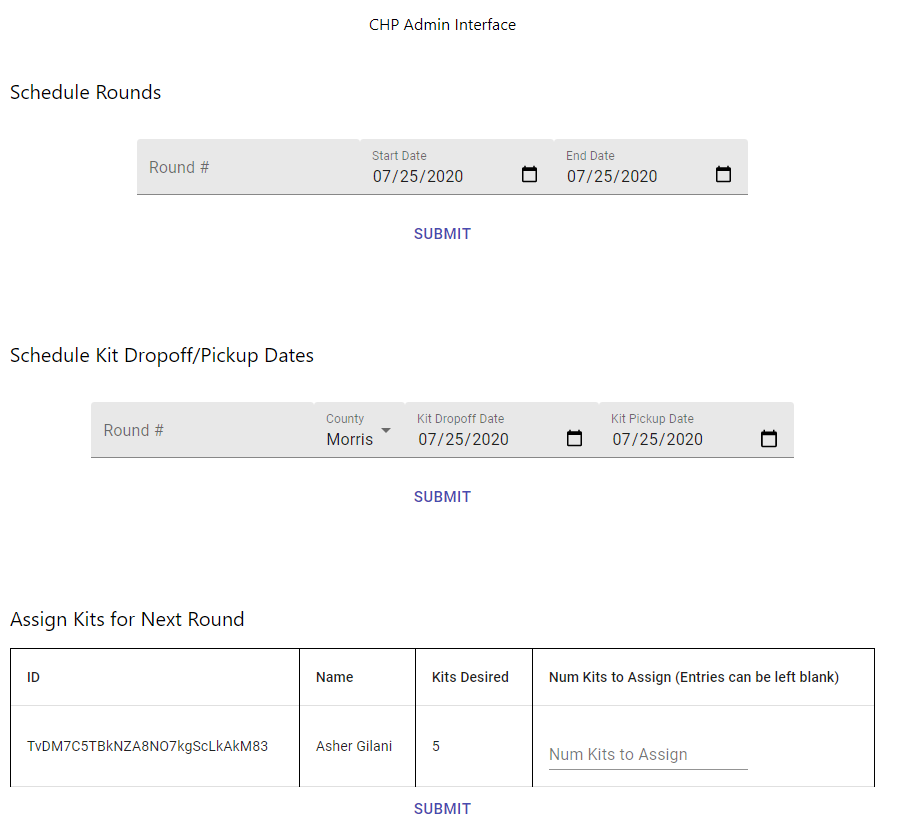
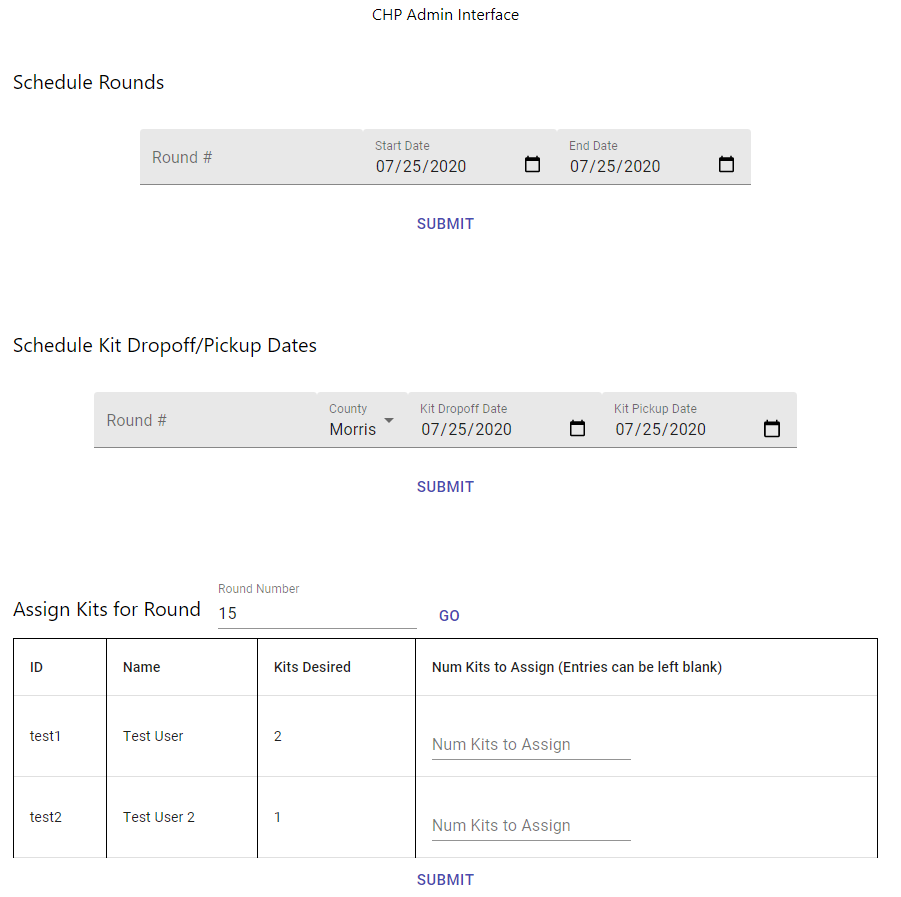
Admin interface now accepts a round number parameter for unassigned users

diff --git a/admin-interface/src/App.js b/admin-interface/src/App.js
@@ -66,6 +66,7 @@ const App = () => {
   const state = {
     scheduleRounds: { roundNum: useRef(), startDate: useRef(), endDate: useRef() },
     scheduleKitDates: { roundNum: useRef(), county: useRef(), kitDropoff: useRef(), kitPickup: useRef() },
+    assignmentRoundNum: useRef(''),
     assignKits: {}
   }
 
@@ -94,7 +95,11 @@ const App = () => {
 
   const initAssignKits = () => {
     console.log('Assigning kits')
+    let roundNum = ''
     let params = {}
+
+    if (state.assignmentRoundNum.current !== '')
+      roundNum = state.assignmentRoundNum.current.value
 
     for (const id in state.assignKits) {
       if (state.assignKits[id].value !== '') {
@@ -105,21 +110,31 @@ const App = () => {
     console.log(JSON.stringify(params, null, 2))
 
     if (Object.keys(params).length !== 0) {
-      assignKits(params)
+      assignKits(params, roundNum).then(() => {
+        initGetUnassignedUsers()
+      })
     }
+  }
+
+  const initGetUnassignedUsers = () => {
+    setUnassignedLoading(true)
+    let roundNum = ''
+
+    if (state.assignmentRoundNum.current !== '')
+      roundNum = state.assignmentRoundNum.current.value
+
+    getUnassignedUsers(roundNum).then((unassigned) => {
+      const newAssignKitRows = unassigned.map(user => createRow(user[0], user[1], user[2]))
+      state.assignKits = {}
+      setAssignKitRows(newAssignKitRows)
+      setUnassignedLoading(false)
+    })
   }
 
   useEffect(() => {
     // Load in unassigned constructors into the bottom table
     if (loggedIn) {
-      setUnassignedLoading(true)
-
-      getUnassignedUsers().then((unassigned) => {
-        const newAssignKitRows = unassigned.map(user => createRow(user[0], user[1], user[2]))
-        state.assignKits = {}
-        setAssignKitRows(newAssignKitRows)
-        setUnassignedLoading(false)
-      })
+      initGetUnassignedUsers()
     }
   }, [loggedIn])
 
@@ -165,7 +180,9 @@ const App = () => {
 
         <FormContainer>
           <LoadingForm>
-            <FormTitle>Assign Kits for Next Round</FormTitle>
+            <FormTitle>Assign Kits for Round</FormTitle>
+            <TextField label='Round Number' inputRef={state.assignmentRoundNum} style={{ marginLeft: '2%', marginTop: '-1.5%' }} />
+            <Button size='large' color='primary' onClick={initGetUnassignedUsers}>Go</Button>
             <BeatLoader
               size={20}
               color='#123abc'

diff --git a/admin-interface/src/actions/AdminActions.js b/admin-interface/src/actions/AdminActions.js
@@ -47,8 +47,10 @@ export const scheduleKitDates = ({ roundNum, county, kitDropoffDate, kitPickupDa
         .catch(err => console.log(`Could not schedule dates: ${err}`))
 }
 
-export const assignKits = (kitAssignment) => {
-    fetch(`${endpoint}/AssignKits`, { method: 'POST', body: JSON.stringify(kitAssignment)})
+export const assignKits = (kitAssignment, roundNumber) => {
+    const url = `${endpoint}/AssignKits?` + new URLSearchParams({ roundNumber })
+
+    return fetch(url, { method: 'POST', body: JSON.stringify(kitAssignment)})
         .then((res) => {
             if (res.status === 200) {
                 console.log('Succesfully updated kit assignment')
@@ -61,8 +63,10 @@ export const assignKits = (kitAssignment) => {
         })
 }
 
-export const getUnassignedUsers = () => {
-    return fetch(`${endpoint}/GetUnassignedUsers`)
+export const getUnassignedUsers = (roundNumber) => {
+    const url = `${endpoint}/GetUnassignedUsers?` + new URLSearchParams({ roundNumber })
+
+    return fetch(url)
         .then(res => res.json())
         .then(json => {
             return json.unassignedUsers

diff --git a/server/admin_SAM/assign_kits/app.py b/server/admin_SAM/assign_kits/app.py
@@ -17,6 +17,7 @@ def get_db_secret():
 
 def lambda_handler(event, context):
     kit_assignment = json.loads(event['body'])
+    round_num = event['queryStringParameters']['roundNumber']
 
     # Connect to DB
     status, secret = get_db_secret()
@@ -33,14 +34,17 @@ def lambda_handler(event, context):
     except Exception as e:
         return { 'statusCode': 500, 'headers': { "Access-Control-Allow-Origin" : "*" }, 'body': json.dumps({ 'message': f'Failed to establish DB connection: {e}' }) }
 
-    # Figure out next round (get current round and add one)
-    cur.execute('''
-        SELECT round_number
-        FROM rounds
-        WHERE start_date <= (SELECT CURRENT_DATE) AND (SELECT CURRENT_DATE) <= end_date
-    ''')
+    if round_num == '':
+        # Figure out next round (get current round and add one)
+        cur.execute('''
+            SELECT round_number
+            FROM rounds
+            WHERE start_date <= (SELECT CURRENT_DATE) AND (SELECT CURRENT_DATE) <= end_date
+        ''')
 
-    next_round = cur.fetchone()[0] + 1
+        next_round = cur.fetchone()[0] + 1
+    else:
+        next_round = round_num
 
     # Assign Kits (update rows in rounds_construct)
     args_list = [(next_round, 0, 0, c_id, num_masks_assigned) for c_id, num_masks_assigned in kit_assignment.items()]

diff --git a/server/admin_SAM/get_unassigned_users/app.py b/server/admin_SAM/get_unassigned_users/app.py
@@ -14,6 +14,8 @@ def get_db_secret():
         return 200, json.loads(secret)
 
 def lambda_handler(event, context):
+    round_num = event['queryStringParameters']['roundNumber']
+
     # Connect to DB
     status, secret = get_db_secret()
 
@@ -29,14 +31,17 @@ def lambda_handler(event, context):
     except Exception as e:
         return { 'statusCode': 500, 'headers': { "Access-Control-Allow-Origin" : "*" }, 'body': json.dumps({ 'message': f'Failed to establish DB connection: {e}' }) }
 
-    # Figure out next round (get current round and add one)
-    cur.execute('''
-        SELECT round_number
-        FROM rounds
-        WHERE start_date <= (SELECT CURRENT_DATE) AND (SELECT CURRENT_DATE) <= end_date
-    ''')
+    if round_num == '':
+        # Figure out next round (get current round and add one)
+        cur.execute('''
+            SELECT round_number
+            FROM rounds
+            WHERE start_date <= (SELECT CURRENT_DATE) AND (SELECT CURRENT_DATE) <= end_date
+        ''')
 
-    next_round = cur.fetchone()[0] + 1
+        next_round = cur.fetchone()[0] + 1
+    else:
+        next_round = round_num
 
     # Query for unassigned constructors
     cur.execute('''
